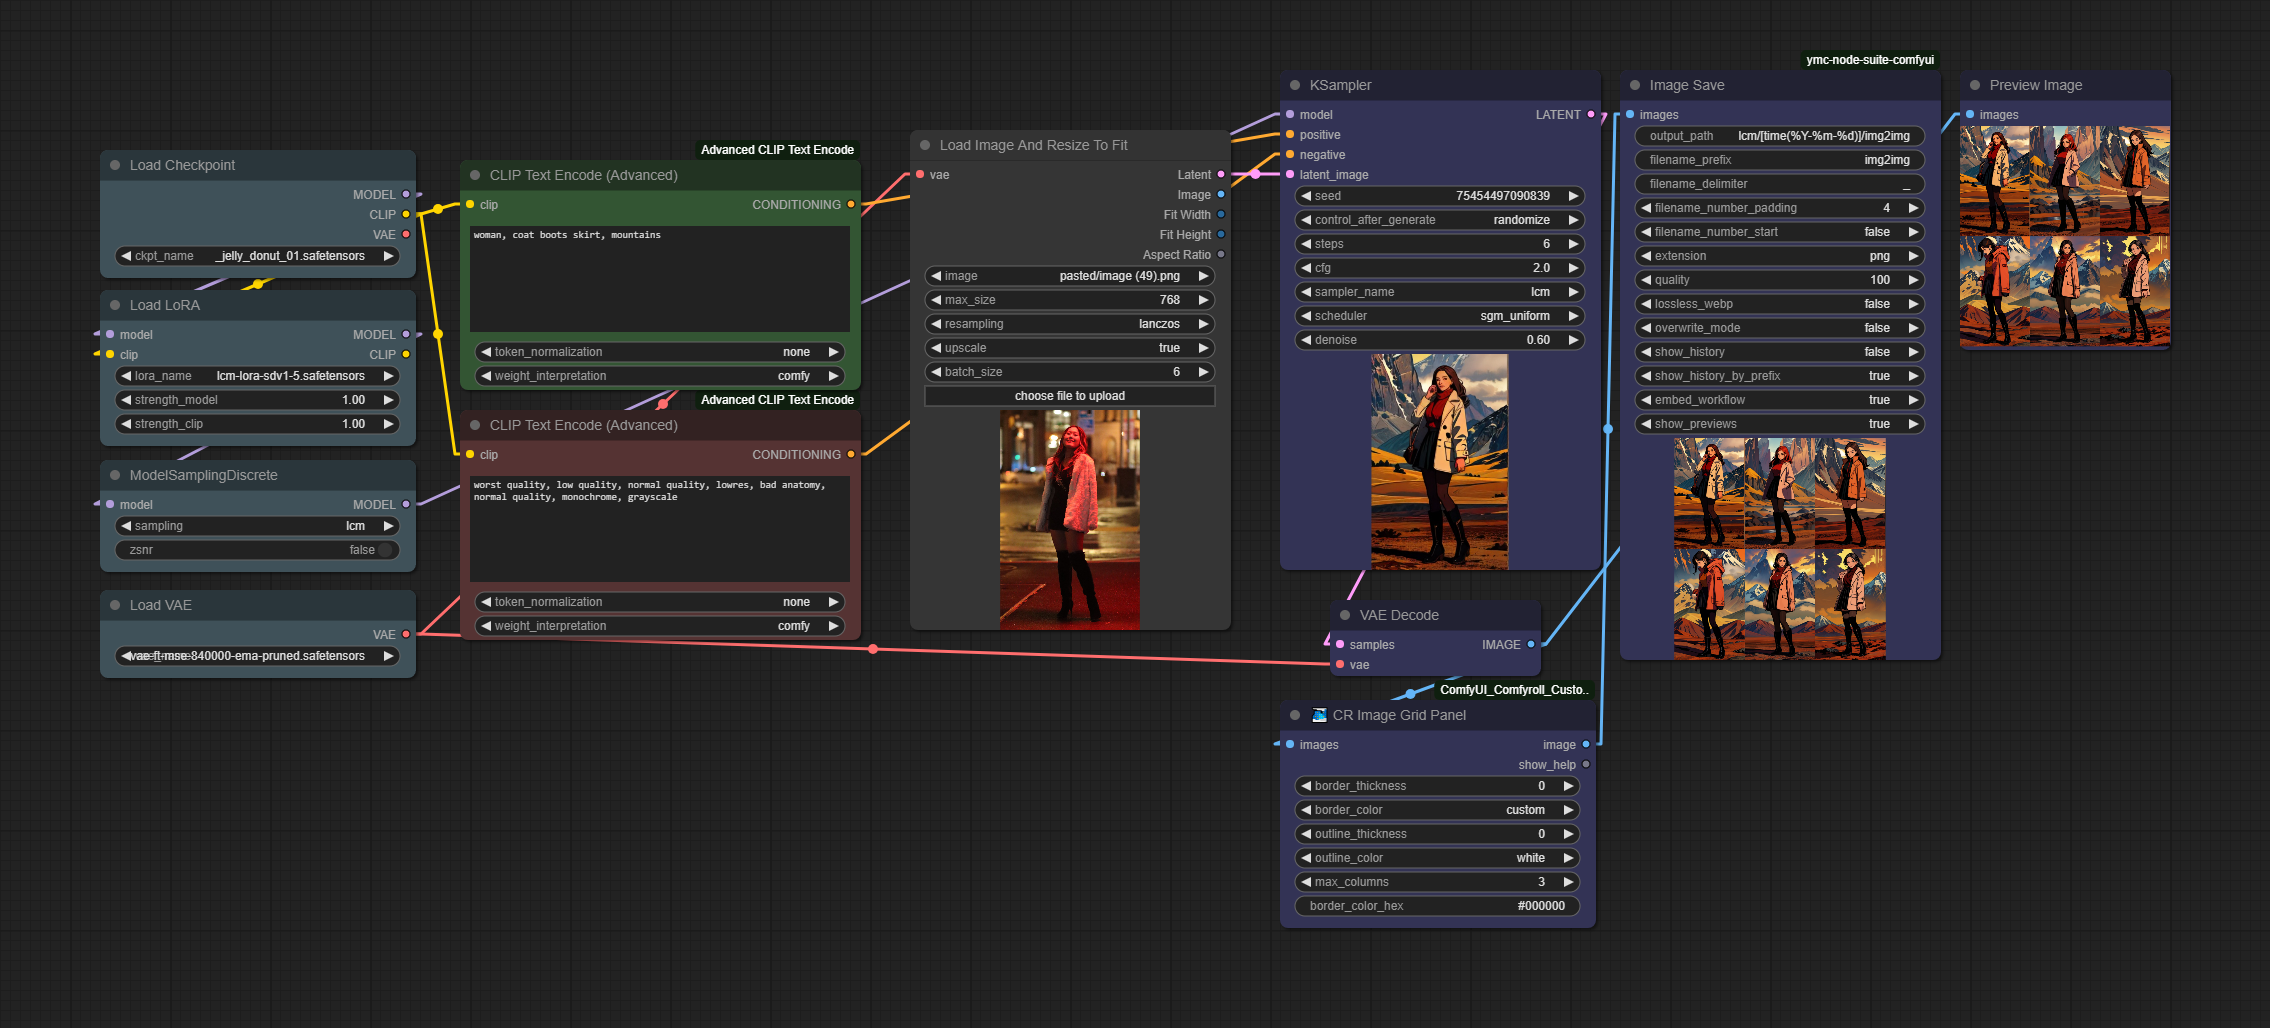
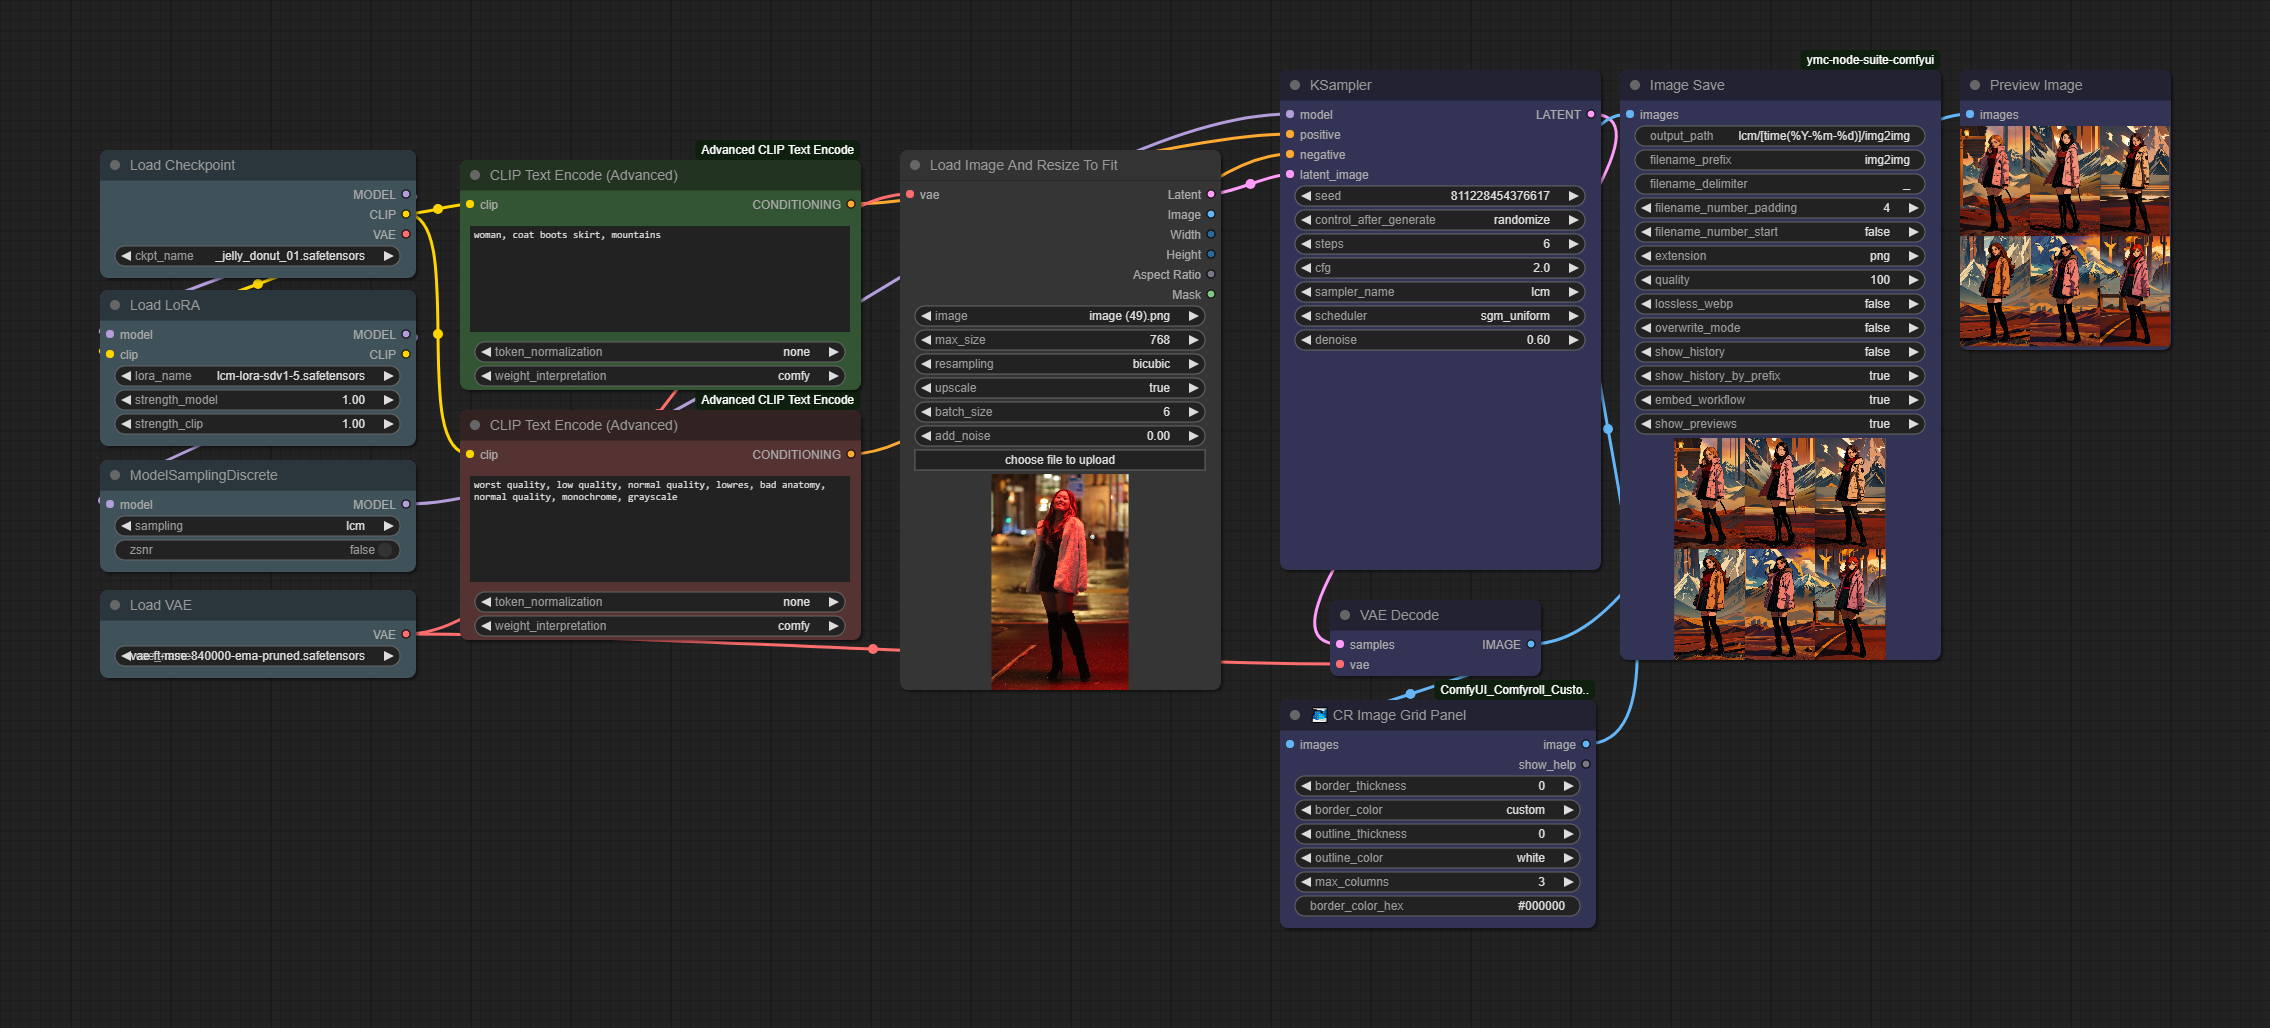
updated images, added mask output

diff --git a/nodes.py b/nodes.py
@@ -41,6 +41,49 @@ def octal_sizes (width, height):
     octalheight = height if height % 8 == 0 else height + (8 - height % 8)
     return (octalwidth, octalheight)
 
+
+def vae_encode_crop_pixels(pixels):
+    x = (pixels.shape[1] // 8) * 8
+    y = (pixels.shape[2] // 8) * 8
+    if pixels.shape[1] != x or pixels.shape[2] != y:
+        x_offset = (pixels.shape[1] % 8) // 2
+        y_offset = (pixels.shape[2] % 8) // 2
+        pixels = pixels[:, x_offset:x + x_offset, y_offset:y + y_offset, :]
+    return pixels
+
+
+def blend_latents(latent, noised_latent, alpha):
+    return latent * alpha + noised_latent * (1. - alpha)
+
+def fit_and_resize_image (image, vae, max_size=768, resampling="bicubic", upscale="false", batch_size=1, add_noise=0.0):
+    size = get_image_size(image)
+    new_width, new_height, aspect_ratio = get_max_size(size[0], size[1], max_size, upscale)
+
+    img = tensor2pil(image)
+    resized_image = img.resize((new_width, new_height), resample=Image.Resampling(resample_filters[resampling]))
+    tensor_img = pil2tensor(resized_image)
+
+    pixels = vae_encode_crop_pixels(tensor_img)
+
+    if add_noise > 0.0:
+        noise = torch.randn_like(vae.encode(pixels[:,:,:,:3]))
+        noised_latent = blend_latents(noise, vae.encode(pixels[:,:,:,:3]), add_noise)
+        noised_latent = noised_latent.repeat((batch_size, 1,1,1))
+
+    # vae encode the image
+    t = vae.encode(pixels[:,:,:,:3])
+
+    # batch the latent vectors
+    batched = t.repeat((batch_size, 1,1,1))
+
+    return (
+        {"samples": noised_latent if add_noise > 0.0 else batched},
+        tensor_img,
+        new_width,
+        new_height,
+        aspect_ratio,
+        )
+
 resample_filters = {
     'nearest': 0,
     'lanczos': 1,
@@ -145,6 +188,7 @@ class FitResizeLatent():
                 "resampling": (["lanczos", "nearest", "bilinear", "bicubic"],),
                 "upscale": (["false", "true"],),
                 "batch_size": ("INT", {"default": 1, "min": 1, "max": 64}),
+                "add_noise": ("FLOAT", {"default": 0, "min": 0, "max": 1, "step": 0.01}),
             }
         }
 
@@ -166,40 +210,9 @@ class FitResizeLatent():
 
     CATEGORY = "Fitsize"
 
-    @staticmethod
-    def vae_encode_crop_pixels(pixels):
-        x = (pixels.shape[1] // 8) * 8
-        y = (pixels.shape[2] // 8) * 8
-        if pixels.shape[1] != x or pixels.shape[2] != y:
-            x_offset = (pixels.shape[1] % 8) // 2
-            y_offset = (pixels.shape[2] % 8) // 2
-            pixels = pixels[:, x_offset:x + x_offset, y_offset:y + y_offset, :]
-        return pixels
+    def fit_resize_latent (self, image, vae, max_size=768, resampling="bicubic", upscale="false", batch_size=1, add_noise=0.0):
 
-    def fit_resize_latent (self, image, vae, max_size=768, resampling="bicubic", upscale="false", batch_size=1):
-
-        size = get_image_size(image)
-        img = tensor2pil(image)
-
-        new_width, new_height, aspect_ratio = get_max_size(size[0], size[1], max_size, upscale)
-        
-        resized_image = img.resize((new_width, new_height), resample=Image.Resampling(resample_filters[resampling]))
-        tensor_img = pil2tensor(resized_image)
-
-        # vae encode the image
-        pixels = self.vae_encode_crop_pixels(tensor_img)
-        t = vae.encode(pixels[:,:,:,:3])
-
-        # batch the latent vectors
-        batched = t.repeat((batch_size, 1,1,1))
-
-        return (
-            {"samples":batched},
-            tensor_img,
-            new_width,
-            new_height,
-            aspect_ratio,
-            )
+        return fit_and_resize_image(image, vae, max_size, resampling, upscale, batch_size, add_noise)
     
 class LoadToFitResizeLatent():
     def __init__(self):
@@ -217,6 +230,7 @@ class LoadToFitResizeLatent():
                 "resampling": (["lanczos", "nearest", "bilinear", "bicubic"],),
                 "upscale": (["false", "true"],),
                 "batch_size": ("INT", {"default": 1, "min": 1, "max": 64}),
+                "add_noise": ("FLOAT", {"default": 0, "min": 0, "max": 1, "step": 0.01}),
             }
         }
 
@@ -226,36 +240,31 @@ class LoadToFitResizeLatent():
         "INT",
         "INT",
         "FLOAT",
+        "MASK",
         )
     RETURN_NAMES = (
         "Latent",
         "Image",
-        "Fit Width",
-        "Fit Height",
+        "Width",
+        "Height",
         "Aspect Ratio",
+        "Mask",
         )
     FUNCTION = "fit_resize_latent"
 
     CATEGORY = "Fitsize"
-
-    @staticmethod
-    def vae_encode_crop_pixels(pixels):
-        x = (pixels.shape[1] // 8) * 8
-        y = (pixels.shape[2] // 8) * 8
-        if pixels.shape[1] != x or pixels.shape[2] != y:
-            x_offset = (pixels.shape[1] % 8) // 2
-            y_offset = (pixels.shape[2] % 8) // 2
-            pixels = pixels[:, x_offset:x + x_offset, y_offset:y + y_offset, :]
-        return pixels
     
     @staticmethod
     def load_image(image):
-        image_path = folder_paths.get_annotated_filepath(image)
-        i = Image.open(image_path)
-        i = ImageOps.exif_transpose(i)
-        image = i.convert("RGB")
-        image = np.array(image).astype(np.float32) / 255.0
-        image = torch.from_numpy(image)[None,]
+        if (type(image) == str):
+
+            image_path = folder_paths.get_annotated_filepath(image)
+            i = Image.open(image_path)
+            i = ImageOps.exif_transpose(i)
+            image = i.convert("RGB")
+            image = np.array(image).astype(np.float32) / 255.0
+            image = torch.from_numpy(image)[None,]
+
         if 'A' in i.getbands():
             mask = np.array(i.getchannel('A')).astype(np.float32) / 255.0
             mask = 1. - torch.from_numpy(mask)
@@ -264,7 +273,7 @@ class LoadToFitResizeLatent():
         return (image, mask.unsqueeze(0))
 
     @classmethod
-    def IS_CHANGED(s, vae, image, max_size=768, resampling="bicubic", upscale="false", batch_size=1):
+    def IS_CHANGED(s, vae, image, max_size=768, resampling="bicubic", upscale="false", batch_size=1, add_noise=0.0):
         image_path = folder_paths.get_annotated_filepath(image)
         m = hashlib.sha256()
         with open(image_path, 'rb') as f:
@@ -272,35 +281,22 @@ class LoadToFitResizeLatent():
         return m.digest().hex()
 
     @classmethod
-    def VALIDATE_INPUTS(s, vae, image, max_size=768, resampling="bicubic", upscale="false", batch_size=1):
+    def VALIDATE_INPUTS(s, vae, image, max_size=768, resampling="bicubic", upscale="false", batch_size=1, add_noise=0.0):
         if not folder_paths.exists_annotated_filepath(image):
             return "Invalid image file: {}".format(image)
-
         return True
 
-    def fit_resize_latent (self, vae, image, max_size=768, resampling="bicubic", upscale="false", batch_size=1):
+    def fit_resize_latent (self, vae, image, max_size=768, resampling="bicubic", upscale="false", batch_size=1, add_noise=0.0):
 
         got_image,mask = self.load_image(image)
 
-        size = get_image_size(got_image)
-        img = tensor2pil(got_image)
-
-        new_width, new_height, aspect_ratio = get_max_size(size[0], size[1], max_size, upscale)
-        
-        resized_image = img.resize((new_width, new_height), resample=Image.Resampling(resample_filters[resampling]))
-        tensor_img = pil2tensor(resized_image)
-
-        # vae encode the image
-        pixels = self.vae_encode_crop_pixels(tensor_img)
-        t = vae.encode(pixels[:,:,:,:3])
-
-        # batch the latent vectors
-        batched = t.repeat((batch_size, 1,1,1))
+        latent,img,new_width,new_height,aspect_ratio = fit_and_resize_image(got_image, vae, max_size, resampling, upscale, batch_size, add_noise)
 
         return (
-            {"samples":batched},
-            tensor_img,
+            latent,
+            img,
             new_width,
             new_height,
             aspect_ratio,
+            mask,
             )

diff --git a/__init__.py b/__init__.py
@@ -3,17 +3,17 @@ from .nodes import FitSize, FitSizeFromImage, FitResizeImage, FitResizeLatent, L
 # A dictionary that contains all nodes you want to export with their names
 # NOTE: names should be globally unique
 NODE_CLASS_MAPPINGS = {
-    "FitSizeFromInt": FitSize,
-    "FitSizeFromImage": FitSizeFromImage,
-    "FitSizeResizeImage": FitResizeLatent,
-    "LoadToFitResizeImage": LoadToFitResizeLatent,
+    "Fit Size From Int": FitSize,
+    "Fit Size From Image": FitSizeFromImage,
+    "Fit Image And Resize": FitResizeLatent,
+    "Load Image And Resize To Fit": LoadToFitResizeLatent,
 }
 
 NODE_DISPLAY_NAME_MAPPINGS = {
-    "FitSizeFromInt": "Fit Size From Int",
-    "FitSizeFromImage": "Fit Size From Image",
-    "FitSizeResizeImage": "Fit Resize Image",
-    "LoadToFitResizeImage": "Load Image And Resize To Fit",
+    "Fit Size From Int": "Fit Size From Int",
+    "Fit Size From Image": "Fit Size From Image",
+    "Fit Image And Resize": "Fit Image And Resize",
+    "Load Image And Resize To Fit": "Load Image And Resize To Fit",
 }
 
 __all__ = ['NODE_CLASS_MAPPINGS', 'NODE_DISPLAY_NAME_MAPPINGS']

diff --git a/README.md b/README.md
@@ -30,7 +30,7 @@ This node accepts any image input and will extract the width and height automati
 
 ![Fit Size From Image](assets/fitsizefromimage.png)
 
-### Fit Resize Image
+### Fit And Resize Image
 
 Now this is where things get interesting. This node accepts a vae so that we can skip right to outputting a rescaled image. It will output both an image and a latent batch. This makes it a very useful tool for img2img workflows. 
 
@@ -48,7 +48,7 @@ This workflow uses a number of other custom node sets to showcase that this node
 
 ![Fit Resize Image](assets/loadtofitresizeimage.png)
 
-Could this workflow example be simpler? There are a lot of nodes like the Efficiency Nodes that can combine a bunch of functionality, and this node can fit gently in the center of them.
+Here is a simpler workflow example using the Efficiency nodes. The Fit nodes should fit right into the middle of a lot of other workflows.
 
 ![Fit Resize Image](assets/loadtofitresizeimageb.png)
 
